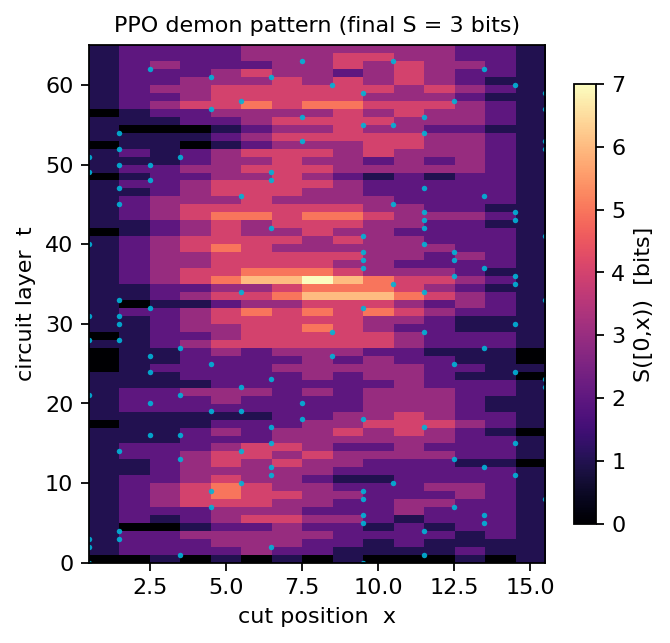
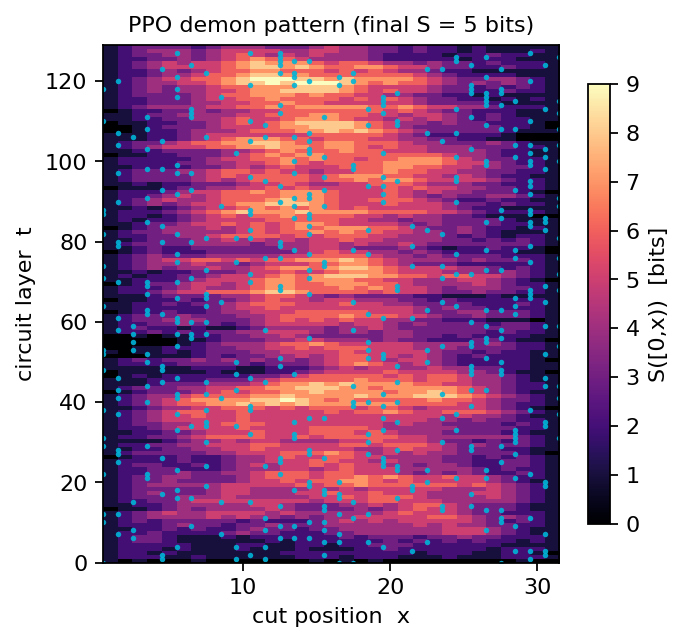
Section V final: PPO verdict at 25.6k episodes, matched-budget table
- inspect final HYAK checkpoint: PPO stochastic 5.17(12) vs random 5.34(8);
  greedy decoding worse at 6.28(15) (fencing collapse); lawnmower 2.00(7)
- fresh L=32 k=4 baselines for the Sec V table (incl. shuffled coverage,
  oracle greedy)
- Sec V written: optimization-geometry framing (sweep representable but
  invisible to myopic credit assignment); fig8 regenerated at L=32
- README finding 6 finalized; compiles clean

Claude-Session: https://claude.ai/code/session_01FUwUY2ZPtJ3BfeTpx5UbWr

diff --git a/paper/main.tex b/paper/main.tex
@@ -263,17 +263,69 @@ effective placement at this granularity: geometry is.
 \section{Learned placement policies}
 \label{sec:learned}
 
-\todo{CEM linear policy: fencing behavior, fig4 spacetime. PPO
-(circular-conv + GRU, Plackett--Luce top-$k$): a short CPU run (about 1.3k
-episodes, $L{=}16$, $k{=}2$) plateaued at $S \approx 3.3$, indistinguishable
-from random placement and below the CEM linear policy (2.77); the pattern is
-diffuse, with no sweeping or fencing (fig8). Treat as compute limited; HYAK
-run (400 updates $\times$ 64 episodes, shaped rewards) pending. If
-large-scale PPO still fails to rediscover the sweep despite staleness
-features, reframe: myopic shaped rewards make time-coherent placement
-strategies hard to learn, and the sweep sits in a poorly connected region
-of policy space. The sweep is the classical-information baseline to beat;
-oracle greedy shows that myopic quantum information is insufficient.}
+We ask whether placement structure can be learned rather than designed.
+Policies observe only classical record features per site: time since the
+site was last measured, last outcome, empirical outcome bias, neighbor
+staleness, and layer parity. Actions select $k$ distinct sites per layer,
+so all comparisons remain at matched budget.
+
+We train two policy classes to minimize the final half-cut entropy. The
+first is a linear scoring policy (top-$k$ over a linear function of the
+site features) trained with the cross-entropy method. The second is a
+translation-equivariant circular convolutional network with a recurrent
+(GRU) global memory, trained with PPO; actions are sampled without
+replacement through a Plackett--Luce factorization, which gives exact
+log-probabilities. The recurrent state exists precisely so that the policy
+class can express time-advancing patterns such as sweeps. Training used
+400 updates of 64 episodes (25{,}600 episodes) at $L = 32$, $k = 4$,
+$T = 128$, with per-layer entropy-difference reward shaping.
+
+Table~\ref{tab:learned} reports matched-budget evaluations. The CEM linear
+policy improves modestly on random placement and converges to a
+``fencing'' strategy: it pins measurements at a small set of fixed sites
+and quarantines entanglement between them (Fig.~\ref{fig:spacetime}).
+Fencing is locally sensible and globally suboptimal. The PPO policy, given
+$19\times$ more episodes and a policy class that contains moving patterns,
+does not improve on random placement ($5.17 \pm 0.12$ against
+$5.34 \pm 0.08$), and its training curve is flat over the final 300
+updates. Its stochasticity is doing the work: decoding the same policy
+greedily performs worse ($6.28 \pm 0.15$) and writes fewer random bits to
+the record, indicating collapse onto repeatedly measured sites, the
+fencing failure mode again. The sweep outperforms every learned and
+informed policy by more than a factor of two.
+
+\begin{table}
+\caption{Final half-cut entropy at matched budget
+($L = 32$, $k = 4$, $T = 128$; mean $\pm$ s.e.m.).}
+\label{tab:learned}
+\begin{ruledtabular}
+\begin{tabular}{lcc}
+Policy & Information used & $\langle S(L/2)\rangle$ [bits] \\
+\hline
+Random placement       & none      & $5.34 \pm 0.08$ \\
+Shuffled coverage      & none      & $4.95 \pm 0.09$ \\
+PPO (stochastic)       & classical & $5.17 \pm 0.12$ \\
+PPO (greedy decoding)  & classical & $6.28 \pm 0.15$ \\
+Oracle greedy          & quantum   & $4.45 \pm 0.18$ \\
+Sweep                  & none      & $2.00 \pm 0.07$ \\
+\end{tabular}
+\end{ruledtabular}
+\end{table}
+
+We read this as a statement about optimization geometry rather than about
+expressivity. The sweep is representable in the PPO policy class: strong
+weight on the staleness feature with a stable tie-breaking direction
+implements it. The learning signal, however, is nearly myopic. One
+measurement moved by one site changes the final entropy little, so the
+reward landscape around unstructured policies is flat, while the sweep's
+advantage is a property of a long temporally coherent trajectory of
+placements. Local policy improvement does not assemble such trajectories
+from unstructured starting points, and both of our learners instead find
+the nearest attractor, fencing, which is a static approximation to
+cutting. Learning where to measure is therefore hard not because good
+strategies are complex but because their value is invisible to myopic
+credit assignment. \todo{optional: seed PPO from a sweep-like
+initialization and test stability of the optimum}
 
 \section{Discussion}
 \label{sec:discussion}

diff --git a/README.md b/README.md
@@ -69,17 +69,15 @@ Two early findings worth keeping:
    *static* placement in the literature only modifies criticality; nothing
    found on sweeping placement or a placement-destroyed volume law. One
    must-read before drafting: arXiv 2411.09784 (Reinforced Disentanglers).
-6. **Short-run PPO does not yet learn structure (negative result, logged).**
-   An 80-update × 16-episode CPU run (L=16, k=2) of the conv+GRU PPO agent
-   plateaued at S ≈ 3.2–3.3 — statistically indistinguishable from random
-   placement (3.34), worse than CEM-linear (2.77), and nowhere near the
-   lawnmower (1.87); its spacetime pattern is diffuse
-   (`figures/fig8_ppo_pattern.png`). ~1.3k episodes is tiny for PPO, so this
-   is a compute statement, not a capability ceiling: the HYAK run
-   (`slurm/ppo.slurm`, 400×64 episodes, shaped) is the real test. If PPO
-   *still* can't rediscover the sweep given its features include staleness,
-   that itself becomes a paper point about the hardness of learning
-   time-coherent strategies from myopic rewards. Inspect any checkpoint with
+6. **FINAL (HYAK, 25.6k episodes): PPO does not learn placement structure.**
+   At L=32, k=4, T=128: random 5.34(8), shuffled coverage 4.95(9), PPO
+   stochastic 5.17(12), PPO greedy-decoded 6.28(15) (collapses onto pinned
+   sites — fencing again), oracle greedy 4.45(18), lawnmower 2.00(7).
+   Training curve flat over the last 300 updates. Paper Sec V frames it as
+   optimization geometry: the sweep IS representable in the policy class,
+   but its value lives in long time-coherent placement trajectories that
+   myopic credit assignment can't see; learners fall into the nearest
+   attractor (fencing) instead. Inspect checkpoints with
    `scripts/inspect_ppo.py`.
 7. **The learned demon "fences."** The CEM-trained linear policy converges to
    pinning measurements at a few fixed sites, quarantining entanglement into a
